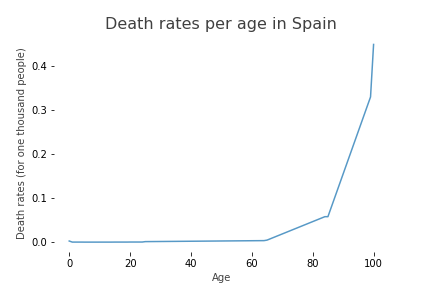
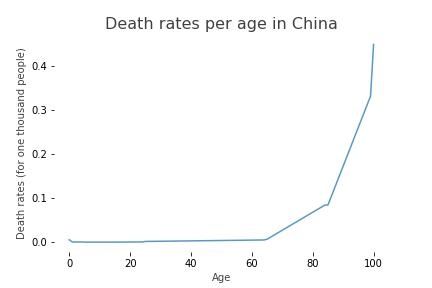
Add files via upload

diff --git a/Simulation de l'évolution de la démographie/AgeStructureScript.py b/Simulation de l'évolution de la démographie/AgeStructureScript.py
@@ -12,14 +12,20 @@ import math
 import numpy as np
 import pandas as pd
 import matplotlib.pyplot as plt
+import re
+
+from matplotlib import rcParams
+import matplotlib.animation as animation
 
 # Important Data
-Country = 'Spain'
-birth_rate = 1.2
+Country = 'China'
+birth_rate = 1.28
 start_year = 2021
 end_year = 2100
 
+histo_bin = ['0-9', '10-19', '20-29', '30-39', '40-49', '50-59', '60-69', '70-79', '80-89', '90-99', '100+']    
 graph_bool = True
+option_graph = 1
 
 def excel_to_csv_converter():
     """
@@ -250,10 +256,86 @@ def next_year_dataframe(year,age_repartition_df):
 
     
 
-def plot_graphs(graph_df, option):
+def init_histo_df():
     print("Function to be coded")
     
+    
+    #Creation of a dataframe containing the population in age bins
+    low_val = []
+    high_val = []
+    for i in range(0, len(histo_bin)):
+        low_val +=re.findall("^(\d+).", histo_bin[i])
+        high_val +=re.findall("[0-9.]+$", histo_bin[i])
+    
+    high_val += ['101']
+   
+    histo_df = pd.DataFrame({'bins' : histo_bin, 'low_val' : low_val, 'high_val' : high_val})
+    
+    return histo_df
 
+def histo_df_update(data_df, current_year,histo_df):  
+    
+    histo_df["bin_values_" + str(current_year)] = 0
+    histo_df = histo_df.astype({'low_val':'int','high_val':'int'})
+    
+    for j in range(0, len(data_df.index)):
+        for k in range(0, len(histo_df.index)):
+
+            
+            if int(data_df['Age'].values[j]) >= histo_df['low_val'].values[k] and int(data_df['Age'].values[j]) <= histo_df['high_val'].values[k]:
+                
+                histo_df['bin_values_' + str(current_year)].values[k] += data_df[str(current_year)].values[j]
+                
+    histo_df['bin_values_' + str(current_year)] = histo_df['bin_values_' + str(current_year)].map(lambda pop: pop/1000000)
+    
+    return histo_df
+    
+def plot_graphs(frame):    
+    #Plot the population pyramid graph
+    
+    
+    current_year = frame + start_year
+    #Clear current plot
+    plt.cla()
+    
+
+    ax.barh(histo_df["bins"], histo_df["bin_values_" + str(current_year)],color = 'indianred' , edgecolor="white", linewidth=0.7)
+    
+    
+    #Compute the max value of histo_dif as max value for the y axis
+    max_histo_df = histo_df.copy()
+    max_histo_df = max_histo_df.drop(columns = ['bins', 'low_val', 'high_val'])
+    max_xaxis = round(max(max_histo_df.max(numeric_only=True))+1)
+    plt.xlim(0.,max_xaxis)
+    
+    #Axis 
+    plt.ylabel('Age', color = 'Black', alpha = 0.75, fontsize=18)
+    plt.xlabel('million people', color = 'Black', alpha = 0.75, fontsize=18)
+    plt.yticks(fontsize=16) 
+    plt.xticks(fontsize=16)
+    
+    #First graph Title
+    plt.title('Population pyramid in ' + Country,fontsize = 22, color = 'Black', alpha = 0.75,  fontweight="bold") 
+        
+    
+    #Textbox
+    plt.text(0.9, 0.9,  'Year: ' + str(current_year), fontsize=18, color='black'\
+             ,ha='center', va='center', alpha = 0.75, transform=ax.transAxes)
+    tot_pop = round(histo_df["bin_values_" +str(current_year)].sum(),2)
+    plt.text(0.9, 0.85,  'Population: ' + str(tot_pop)\
+             + ' millions', fontsize=18, color='black',ha='center', \
+                 va='center', alpha = 0.75, transform=ax.transAxes)
+        
+        
+        
+    # remove the frame of the chart
+    for spine in ax.spines.values():
+        spine.set_visible(False)
+    
+    return plt
+
+    
+ 
 ######Future __main__function#####
 
 
@@ -263,17 +345,32 @@ Final_age_repartition_df = first_dataframe_creation(Country, start_year)
 #compute the death rates data 
 death_rates = compute_death_rates()
 
+histo_df = init_histo_df()
+
+
+
 
 for i in range(start_year, end_year):
     
     print('Year: ' + str(i))
     
+    #update the dataframe for this year
     next_year_dataframe(i, Final_age_repartition_df)
     
-     
-    
+    #update the histogram dataframe for this year
+    histo_df = histo_df_update(Final_age_repartition_df, i,histo_df)
+        
     print('Population: ' + str(Final_age_repartition_df[str(i)].sum()))
     
-print(Final_age_repartition_df)
+histo_df.to_csv ('Results_files/Results_data_file_per_agegroup.csv', index = None, header=True)
 Final_age_repartition_df.to_csv ('Results_files/Results_data_file.csv', index = None, header=True)
+
+if graph_bool:
+    
+    fig = plt.figure(figsize=(12, 8))
+    ax = plt.axes()
+    
+    a = animation.FuncAnimation(fig, plot_graphs, frames= end_year - start_year, interval = 20)
+    
+    a.save('Results_files/Age_pyramid.gif', writer='writergif', fps=2)
     
